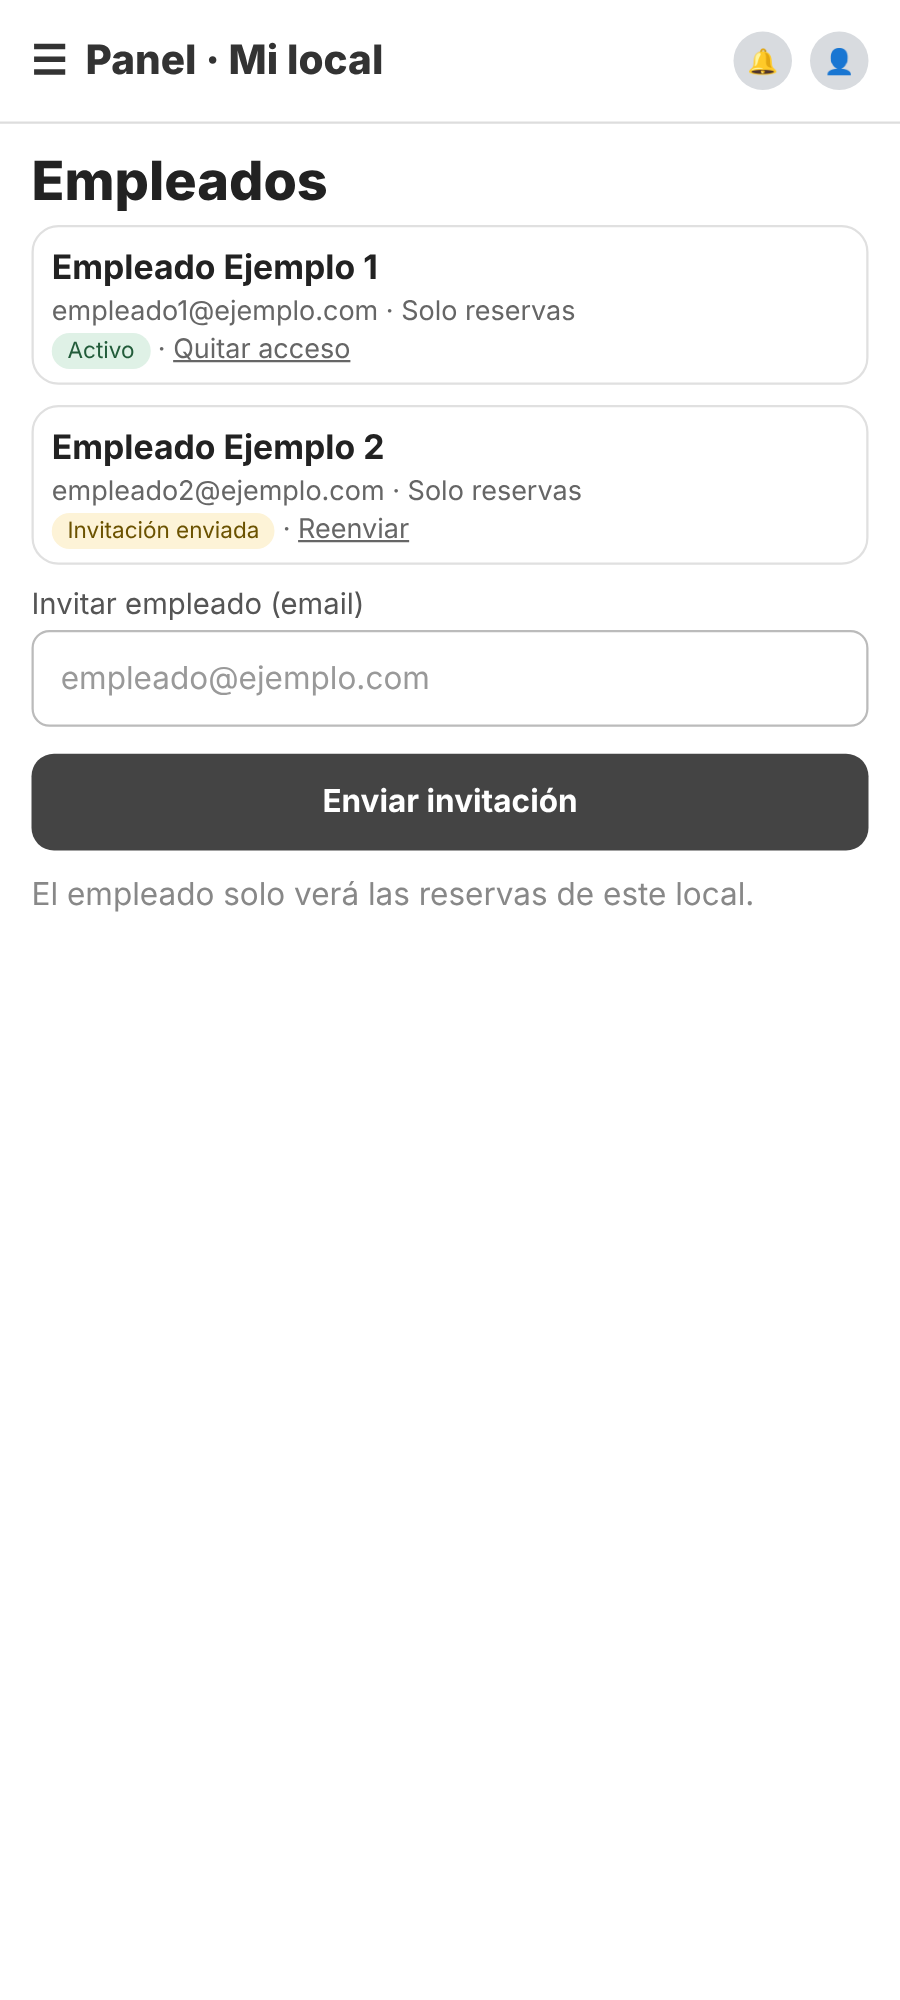
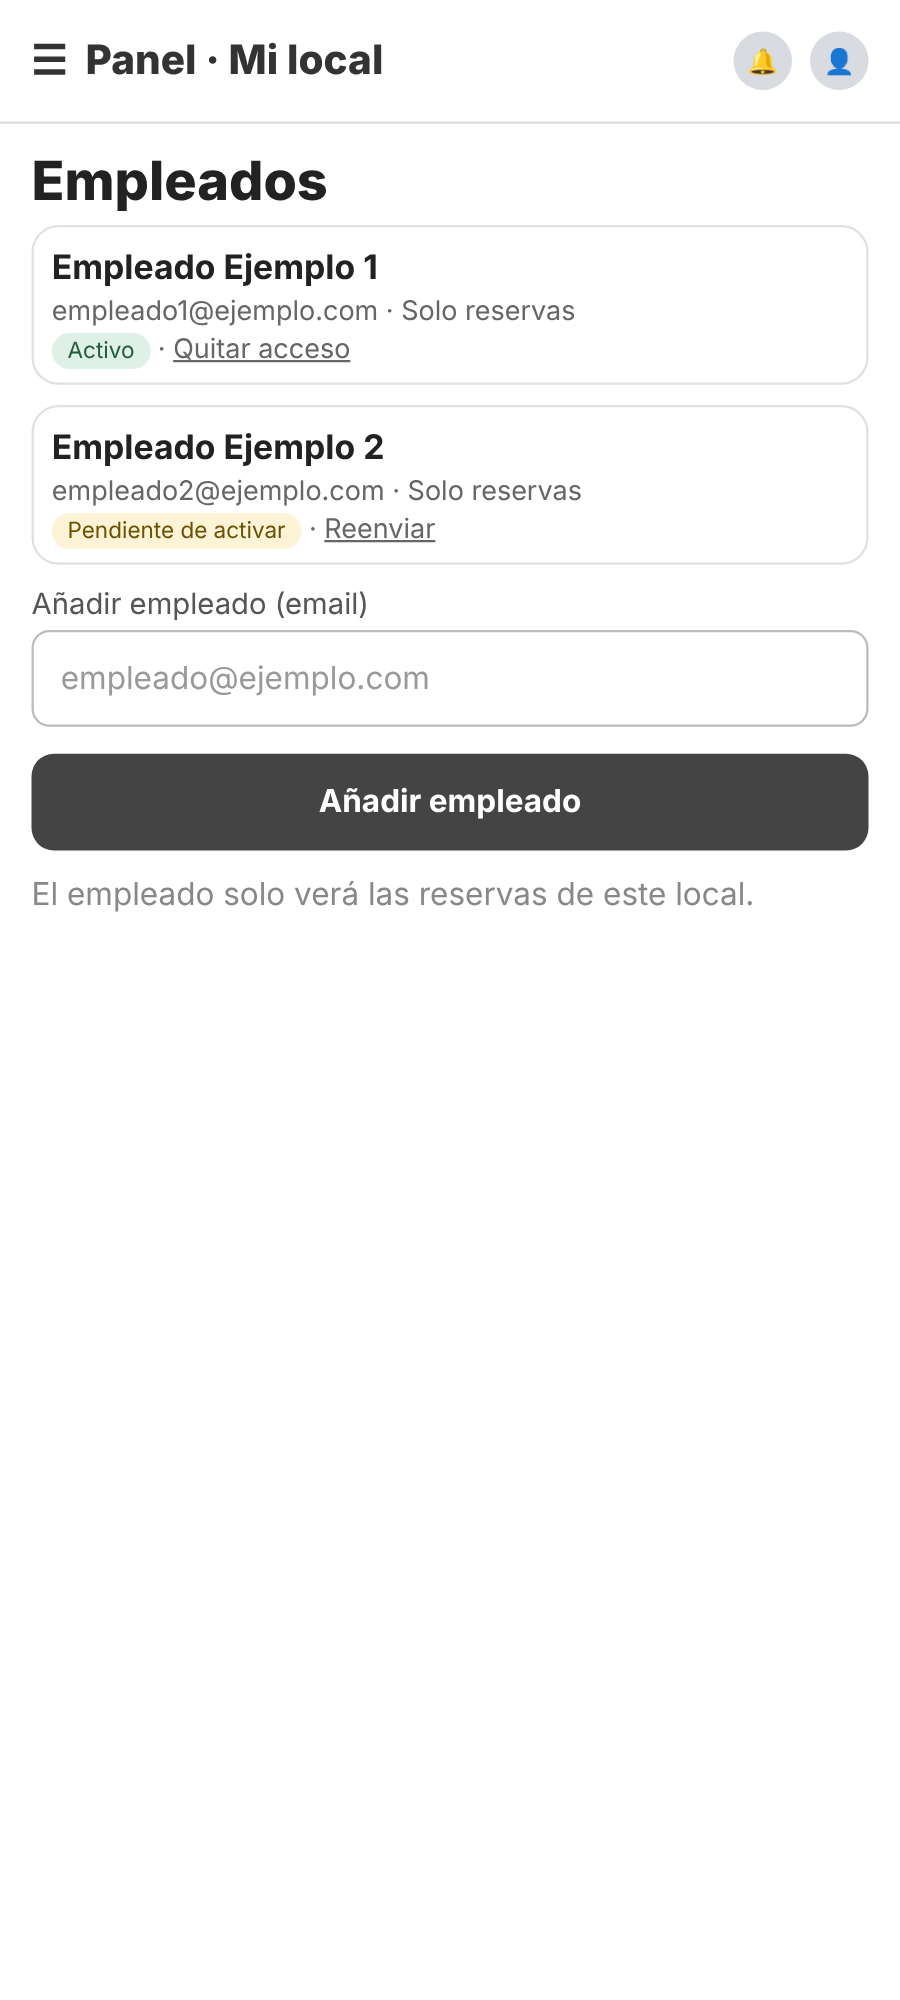
Empleados: «Añadir empleado» en lugar de «invitar»
Claude-Session: https://claude.ai/code/session_01VzQwrb3E36RfY68ihR5Gb4

Changed region(s): [[0.0311, 0.248, 0.4667, 0.31], [0.3733, 0.372, 0.6533, 0.403]]

diff --git a/docs/01-documento-maestro-operacion.md b/docs/01-documento-maestro-operacion.md
@@ -463,7 +463,7 @@ las protegen la moderación previa y los límites). Todas las cuentas entran sin
 | Usuarios (reseñas) | Google, email con código y **huella o cara**. Pantalla «Entrar» con botón **«Crear cuenta»**, que lleva a su propia pantalla (nombre visible, opción de alta y aceptación de condiciones). |
 | Propietarios (MVP) | Google, email con código y **«Continuar con huella o cara»**, en la misma pantalla de acceso del panel. Sin segundo factor obligatorio. La titularidad del local se verifica por vías sin coste. |
 | Administración | **«Continuar con Google»** (cuentas autorizadas) seguido del código de la app de autenticación, **o «Continuar con huella o cara»** (la passkey ya es un factor fuerte). Decisión del titular, 01-11-2026. |
-| Empleados de restaurante (MVP) | Google, email con código o huella o cara. **Solo pueden ver, confirmar y marcar «No disponible» las reservas de su local; nada más.** Los invita el propietario por email desde «Empleados»; el propietario puede quitarles el acceso. |
+| Empleados de restaurante (MVP) | Google, email con código o huella o cara. **Solo pueden ver, confirmar y marcar «No disponible» las reservas de su local; nada más.** Los **añade el propietario** por email desde «Empleados» (el empleado activa su acceso con el email recibido); el propietario puede quitarles el acceso. |
 
 Reglas comunes:
 
@@ -566,7 +566,7 @@ Cabecera, pie de página (navegación secundaria) y barra inferior del móvil.
     - rol **Propietario**: el mismo panel, pero su barra lateral solo muestra «Mi local» (Escritorio, Reservas, Información, Menú,
       Fotos, Reseñas, Empleados) y solo ve los datos de su local. Confirma o marca «No disponible» y gestiona los ajustes de reservas.
     - rol **Empleado**: el mismo panel con una sola sección, **Reservas**, de su local: ver, confirmar y «No disponible». Nada más.
-12. **Empleados** (solo propietario): invitar empleados por email, reenviar o anular la invitación y quitar el acceso.
+12. **Empleados** (solo propietario): añadir empleados por email (quedan «pendientes de activar» hasta que activan su acceso), reenviar o anular y quitar el acceso. En la interfaz no se usa la palabra «invitar».
 
 ### Esqueleto del panel: 2 piezas
 
@@ -602,7 +602,7 @@ Barra lateral y cabecera del panel.
 - Reservas: solo locales con «Acepto reservas»; acceso de propietarios al panel en el MVP (Google, email con código o passkey); todos los locales tienen propietario registrado, que confirma las reservas; el titular se encarga del tema de las reservas (§2, §18 bis).
 - Passkey: botón «Continuar con huella o cara» (§18).
 - Huella o cara también para propietarios y administración (§18).
-- Rol Empleado en el panel: solo reservas de su local (ver, confirmar, «No disponible»); los invita el propietario (§18, §20).
+- Rol Empleado en el panel: solo reservas de su local (ver, confirmar, «No disponible»); los añade el propietario (§18, §20).
 - Moderación automática 3 veces al día (§6).
 - Idioma: base español; al entrar, el del navegador si es es/en/fr, y si no, español (§13).
 - Favoritos en el MVP, disponibles sin conexión; nueva pestaña «Favoritos» en «Mi cuenta» y botón ♡ en la info del local (§12).

diff --git a/diseno/LEEME.md b/diseno/LEEME.md
@@ -26,7 +26,7 @@ Móvil: 900 × 2000 px. Ordenador: 1280 × 760 px. Cada carpeta tiene `movil/` y
 | `panel-04-formulario-local` | Nuevo local: Información, ES, EN, FR, Fotos, Menú, Redirecciones, Historial |
 | `panel-05-fotos` a `panel-10-ajustes` | Fotos, redirecciones, usuarios, auditoría, importar/exportar, ajustes |
 | `panel-11-reservas` | Reservas en el panel: vista de administración (todos los locales), del propietario (su local) y del empleado (solo reservas) |
-| `panel-12-empleados` | El propietario invita empleados y les quita el acceso |
+| `panel-12-empleados` | El propietario añade empleados y les quita el acceso |
 | `panel-esqueleto` | Barra lateral y cabecera del panel |
 
 El acceso al panel está en `web-07-pantallas-login`. Cuando cambie una decisión, se regeneran los bocetos afectados.
